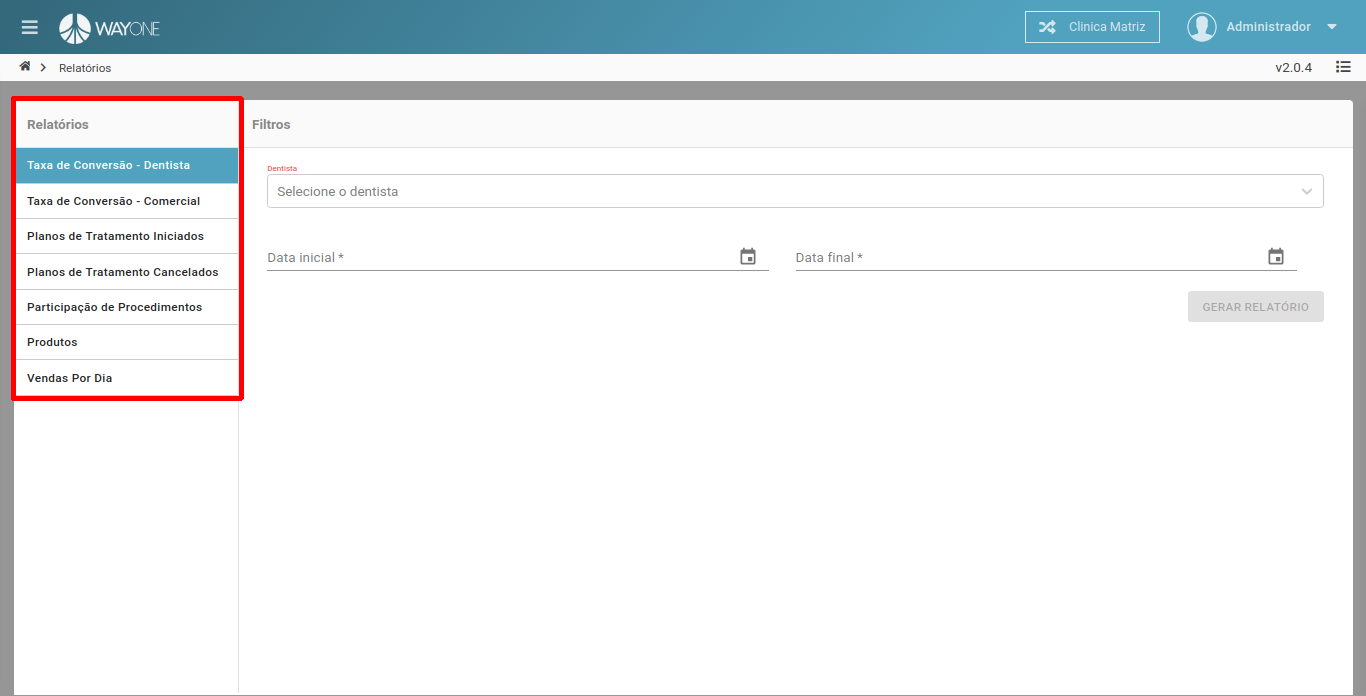
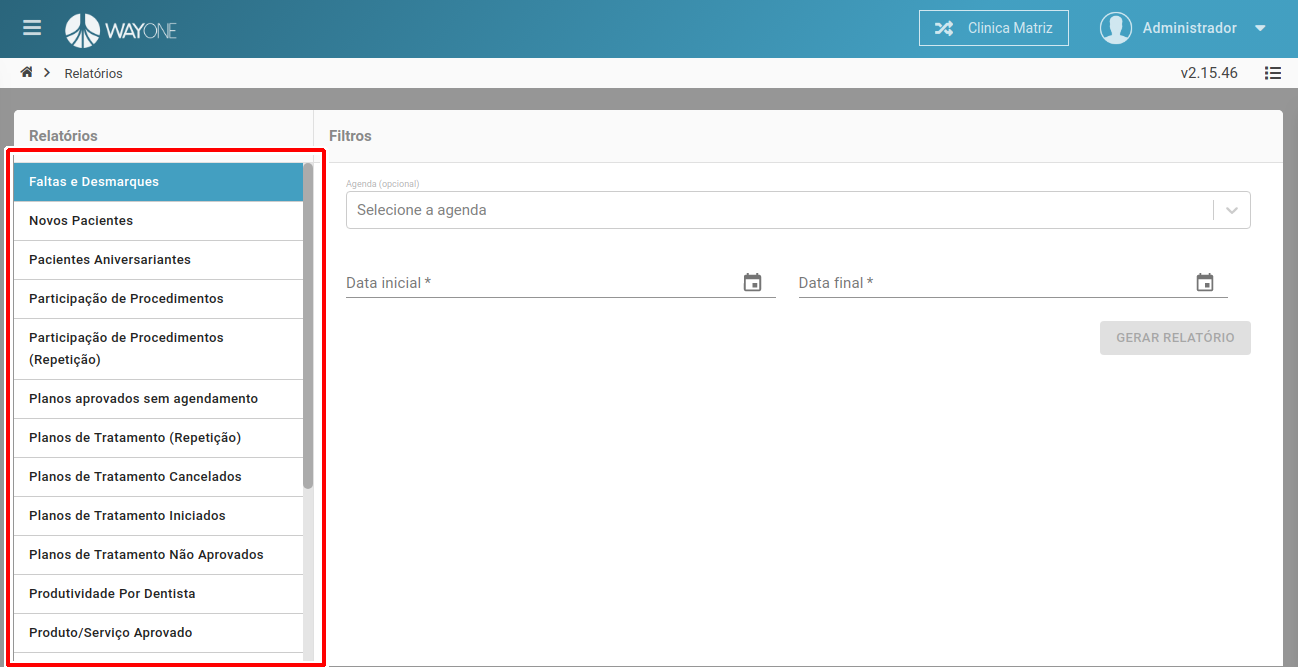
tutoriais de relatórios

diff --git a/pages/relatorio/tipos-relatorios/index.md b/pages/relatorio/tipos-relatorios/index.md
@@ -11,7 +11,7 @@ Para acessar os relatórios no menu do sistema selecione **Relatórios**
   <img alt="tipos-relatorios-img-1" src="/pages/relatorio/tipos-relatorios/tipos-relatorios-img-1.png" style="width: 90%; margin-bottom: 20px;">
 </div>
 
-**Obs:** Caso este item não apareça no seu menu e porque seu usuário não possuir permissões de acesso a esse modulo.
+**Obs:** Caso este item não apareça no seu menu é porque seu usuário não possuir permissões de acesso à este modulo.
 
 Sera exibida a tela de relatórios com o primeiro relatório já selecionado.
 
@@ -21,10 +21,22 @@ Sera exibida a tela de relatórios com o primeiro relatório já selecionado.
 
 Os relatórios presentes no sistema são:
 
-- [Taxa conversão - Dentista](/pages/relatorio/taxa-conversao-dentista/)
-- [Taxa conversão - Comercial](/pages/relatorio/taxa-conversao-comercial/)
-- [Planos de tratamento iniciados](/pages/relatorio/planos-tratamento-iniciados/)
-- [Planos de tratamento cancelados](/pages/relatorio/planos-tratamento-cancelados/)
+- [Faltas e Desmarques](/pages/relatorio/faltas-desmarques/)
+- [Novos Pacientes](/pages/relatorio/novos-pacientes/)
+- [Pacientes Aniversariantes](/pages/relatorio/pacientes-aniversariantes/)
 - [Participação de procedimentos](/pages/relatorio/participacao-procedimentos/)
+- [Participação de procedimentos (Repetição)](/pages/relatorio/participacao-procedimentos-repeticao/)
+- [Planos aprovados sem agendamento](/pages/relatorio/planos-aprovados-sem-agendamentos/)
+- [Planos de tratamento (Repetição)](/pages/relatorio/planos-tratamento-repeticao/) <!-- FAZER -->
+- [Planos de tratamento cancelados](/pages/relatorio/planos-tratamento-cancelados/)
+- [Planos de tratamento iniciados](/pages/relatorio/planos-tratamento-iniciados/)
+- [Planos de tratamento não aprovados](/pages/relatorio/planos-nao-aprovados/)
+- [Produtividade por Dentista](/pages/relatorio/produtividade-por-dentista/)
+- [Produto/Serviço Aprovado](/pages/relatorio/produto-servico-aprovado/)
 - [Produtos](/pages/relatorio/produtos/)
+- [Recebimentos (efetivado)](/pages/relatorio/recebimentos-efetivado/) <!-- FAZER -->
+- [Recebimentos (titulo)](/pages/relatorio/recebimentos-titulo/) <!-- FAZER -->
+- [Situação de procedimentos aprovados](/pages/relatorio/situacao-procedimentos-aprovados/) <!-- FAZER -->
+- [Taxa conversão - Comercial](/pages/relatorio/taxa-conversao-comercial/)
+- [Taxa conversão - Dentista](/pages/relatorio/taxa-conversao-dentista/)
 - [Vendas por dia](/pages/relatorio/vendas-por-dia/)

diff --git a/pages/relatorio/produtividade-por-dentista/index.md b/pages/relatorio/produtividade-por-dentista/index.md
@@ -1,0 +1,31 @@
+---
+layout: page
+title: Relatórios - Produtividade por Dentista
+---
+
+### Definição
+
+O relatório de produtividade por dentista lista todos os procedimentos que o dentista executou, a lista é ordenada por data de execução.
+
+Selecione o relatório de **Produtividade por Dentista** clicando sobre o nome dele no menu localizado no lado esquerdo da tela
+
+<div class="text-center"> 
+  <img alt="produtividade-por-dentista-img-1" src="/pages/relatorio/produtividade-por-dentista/produtividade-por-dentista-img-1.png" style="width: 90%; margin-bottom: 20px;">
+</div>
+
+Será exibido os filtros necessários para a geração do relatório.
+
+<div class="text-center"> 
+  <img alt="produtividade-por-dentista-img-2" src="/pages/relatorio/produtividade-por-dentista/produtividade-por-dentista-img-2.png" style="width: 90%; margin-bottom: 20px;">
+</div>
+
+1. O campo **Dentista** - filtra o dentista que se deseja gerar o relatório.
+2. O campo **Data Inicial** - filtra pela data inicial informada.
+3. O campo **Data Final** - filtra pela data final informada.
+4. Botão **Gerar Relatório** - gera o relatório aplicando os filtros.
+
+Após clicar no botão de gerar o relatório sera gerado um **arquivo em formato .pdf** basta clicar sobre ele para visualiza-lo.
+
+<div class="text-center"> 
+  <img alt="produtividade-por-dentista-img-3" src="/pages/relatorio/produtividade-por-dentista/produtividade-por-dentista-img-3.png" style="width: 800px; border: thin solid #000">
+</div>

diff --git a/pages/relatorio/planos-aprovados-sem-agendamentos/index.md b/pages/relatorio/planos-aprovados-sem-agendamentos/index.md
@@ -1,0 +1,30 @@
+---
+layout: page
+title: Relatórios - Planos aprovados sem agendamento
+---
+
+### Definição
+
+O relatório de planos aprovados sem agendamento lista todos os casos que precisam de agendamento, pois o tratamento já pode ser realizado.
+
+Selecione o relatório de **Planos aprovados sem agendamento** clicando sobre o nome dele no menu localizado no lado esquerdo da tela
+
+<div class="text-center"> 
+  <img alt="planos-aprovados-sem-agendamentos-img-1" src="/pages/relatorio/planos-aprovados-sem-agendamentos/planos-aprovados-sem-agendamentos-img-1.png" style="width: 90%; margin-bottom: 20px;">
+</div>
+
+Será exibido os filtros necessários para a geração do relatório.
+
+<div class="text-center"> 
+  <img alt="planos-aprovados-sem-agendamentos-img-2" src="/pages/relatorio/planos-aprovados-sem-agendamentos/planos-aprovados-sem-agendamentos-img-2.png" style="width: 90%; margin-bottom: 20px;">
+</div>
+
+1. O campo **Data Inicial** - filtra pela data inicial informada.
+2. O campo **Data Final** - filtra pela data final informada.
+3. Botão **Gerar Relatório** - gera o relatório aplicando os filtros.
+
+Após clicar no botão de gerar o relatório sera gerado um **arquivo em formato .pdf** basta clicar sobre ele para visualiza-lo.
+
+<div class="text-center"> 
+  <img alt="planos-aprovados-sem-agendamentos-img-3" src="/pages/relatorio/planos-aprovados-sem-agendamentos/planos-aprovados-sem-agendamentos-img-3.png" style="width: 800px; border: thin solid #000">
+</div>

diff --git a/pages/relatorio/produto-servico-aprovado/index.md b/pages/relatorio/produto-servico-aprovado/index.md
@@ -1,0 +1,31 @@
+---
+layout: page
+title: Relatórios - Produto/Serviço Aprovado
+---
+
+### Definição
+
+O relatório de produto/serviço aprovado lista todos os pacientes que tiveram um determinado produto ou serviço aprovado para ser executado.
+
+Selecione o relatório de **Produto/Serviço Aprovado** clicando sobre o nome dele no menu localizado no lado esquerdo da tela
+
+<div class="text-center"> 
+  <img alt="produto-servico-aprovado-img-1" src="/pages/relatorio/produto-servico-aprovado/produto-servico-aprovado-img-1.png" style="width: 90%; margin-bottom: 20px;">
+</div>
+
+Será exibido os filtros necessários para a geração do relatório.
+
+<div class="text-center"> 
+  <img alt="produto-servico-aprovado-img-2" src="/pages/relatorio/produto-servico-aprovado/produto-servico-aprovado-img-2.png" style="width: 90%; margin-bottom: 20px;">
+</div>
+
+1. O campo **Procedimento** - filtra o produto/serviço que se deseja gerar o relatório.
+2. O campo **Data Inicial** - filtra pela data inicial informada.
+3. O campo **Data Final** - filtra pela data final informada.
+4. Botão **Gerar Relatório** - gera o relatório aplicando os filtros.
+
+Após clicar no botão de gerar o relatório sera gerado um **arquivo em formato .pdf** basta clicar sobre ele para visualiza-lo.
+
+<div class="text-center"> 
+  <img alt="produto-servico-aprovado-img-3" src="/pages/relatorio/produto-servico-aprovado/produto-servico-aprovado-img-3.png" style="width: 800px; border: thin solid #000">
+</div>

diff --git a/pages/relatorio/planos-nao-aprovados/index.md b/pages/relatorio/planos-nao-aprovados/index.md
@@ -1,0 +1,30 @@
+---
+layout: page
+title: Relatórios - Planos de tratamento não aprovados
+---
+
+### Definição
+
+O relatório de planos de tratamento não aprovados lista todos os casos que estão aguardando para aprovar, e caso tenha planos muito antigos, é interessante verificar o caso para entrar em contato com o cliente caso seja necessário.
+
+Selecione o relatório de **Planos de tratamento não aprovados** clicando sobre o nome dele no menu localizado no lado esquerdo da tela
+
+<div class="text-center"> 
+  <img alt="planos-nao-aprovados-img-1" src="/pages/relatorio/planos-nao-aprovados/planos-nao-aprovados-img-1.png" style="width: 90%; margin-bottom: 20px;">
+</div>
+
+Será exibido os filtros necessários para a geração do relatório.
+
+<div class="text-center"> 
+  <img alt="planos-nao-aprovados-img-2" src="/pages/relatorio/planos-nao-aprovados/planos-nao-aprovados-img-2.png" style="width: 90%; margin-bottom: 20px;">
+</div>
+
+1. O campo **Data Inicial** - filtra pela data inicial informada.
+2. O campo **Data Final** - filtra pela data final informada.
+3. Botão **Gerar Relatório** - gera o relatório aplicando os filtros.
+
+Após clicar no botão de gerar o relatório sera gerado um **arquivo em formato .pdf** basta clicar sobre ele para visualiza-lo.
+
+<div class="text-center"> 
+  <img alt="planos-nao-aprovados-img-3" src="/pages/relatorio/planos-nao-aprovados/planos-nao-aprovados-img-3.png" style="width: 800px; border: thin solid #000">
+</div>

diff --git a/pages/relatorio/faltas-desmarques/index.md b/pages/relatorio/faltas-desmarques/index.md
@@ -1,0 +1,31 @@
+---
+layout: page
+title: Relatórios - Faltas e Desmarques
+---
+
+### Definição
+
+O relatório de faltas e desmarques apresenta os agendamentos que foram cancelados em um determinado período. Sejam eles cancelados por parte da clínica ou por parte do paciente.
+
+Selecione o relatório de **Faltas e Desmarques** clicando sobre o nome dele no menu localizado no lado esquerdo da tela
+
+<div class="text-center"> 
+  <img alt="faltas-desmarques-img-1" src="/pages/relatorio/faltas-desmarques/faltas-desmarques-img-1.png" style="width: 90%; margin-bottom: 20px;">
+</div>
+
+Será exibido os filtros necessários para a geração do relatório.
+
+<div class="text-center"> 
+  <img alt="faltas-desmarques-img-2" src="/pages/relatorio/faltas-desmarques/faltas-desmarques-img-2.png" style="width: 90%; margin-bottom: 20px;">
+</div>
+
+1. O campo **Agenda** - é opcional caso queira saber informações de uma só.
+2. O campo **Data Inicial** - filtra pela data inicial informada.
+3. O campo **Data Final** - filtra pela data final informada.
+4. Botão **Gerar Relatório** - gera o relatório aplicando os filtros.
+
+Após clicar no botão de gerar o relatório sera gerado um **arquivo em formato .pdf** basta clicar sobre ele para visualiza-lo.
+
+<div class="text-center"> 
+  <img alt="faltas-desmarques-img-3" src="/pages/relatorio/faltas-desmarques/faltas-desmarques-img-3.png" style="width: 800px; border: thin solid #000">
+</div>

diff --git a/pages/relatorio/pacientes-aniversariantes/index.md b/pages/relatorio/pacientes-aniversariantes/index.md
@@ -1,0 +1,29 @@
+---
+layout: page
+title: Relatórios - Pacientes Aniversariantes
+---
+
+### Definição
+
+O relatório de pacientes aniversariantes lista todas as pessoas que vão fazer aniversário em um determinado período.
+
+Selecione o relatório de **Pacientes Aniversariantes** clicando sobre o nome dele no menu localizado no lado esquerdo da tela
+
+<div class="text-center"> 
+  <img alt="pacientes-aniversariantes-img-1" src="/pages/relatorio/pacientes-aniversariantes/pacientes-aniversariantes-img-1.png" style="width: 90%; margin-bottom: 20px;">
+</div>
+
+Será exibido os filtros necessários para a geração do relatório.
+
+<div class="text-center"> 
+  <img alt="pacientes-aniversariantes-img-2" src="/pages/relatorio/pacientes-aniversariantes/pacientes-aniversariantes-img-2.png" style="width: 90%; margin-bottom: 20px;">
+</div>
+
+1. O campo **Data Inicial** - filtra pela data inicial informada.
+2. O campo **Data Final** - filtra pela data final informada.
+
+Após clicar no botão de gerar o relatório sera gerado um **arquivo em formato .pdf** basta clicar sobre ele para visualiza-lo.
+
+<div class="text-center"> 
+  <img alt="pacientes-aniversariantes-img-3" src="/pages/relatorio/pacientes-aniversariantes/pacientes-aniversariantes-img-3.png" style="width: 800px; border: thin solid #000">
+</div>

diff --git a/pages/relatorio/novos-pacientes/index.md b/pages/relatorio/novos-pacientes/index.md
@@ -1,0 +1,29 @@
+---
+layout: page
+title: Relatórios - Novos Pacientes
+---
+
+### Definição
+
+O relatório de novos pacientes lista todos os novos cadastros realizados em um determinado período.
+
+Selecione o relatório de **Novos Pacientes** clicando sobre o nome dele no menu localizado no lado esquerdo da tela
+
+<div class="text-center"> 
+  <img alt="novos-pacientes-img-1" src="/pages/relatorio/novos-pacientes/novos-pacientes-img-1.png" style="width: 90%; margin-bottom: 20px;">
+</div>
+
+Será exibido os filtros necessários para a geração do relatório.
+
+<div class="text-center"> 
+  <img alt="novos-pacientes-img-2" src="/pages/relatorio/novos-pacientes/novos-pacientes-img-2.png" style="width: 90%; margin-bottom: 20px;">
+</div>
+
+1. O campo **Data Inicial** - filtra pela data inicial informada.
+2. O campo **Data Final** - filtra pela data final informada.
+
+Após clicar no botão de gerar o relatório sera gerado um **arquivo em formato .pdf** basta clicar sobre ele para visualiza-lo.
+
+<div class="text-center"> 
+  <img alt="novos-pacientes-img-3" src="/pages/relatorio/novos-pacientes/novos-pacientes-img-3.png" style="width: 800px; border: thin solid #000">
+</div>

diff --git a/pages/relatorio/participacao-procedimentos-repeticao/index.md b/pages/relatorio/participacao-procedimentos-repeticao/index.md
@@ -1,0 +1,16 @@
+---
+layout: page
+title: Relatórios - Participação de Procedimentos (Repetição)
+---
+
+### Definição
+
+O relatório de participação de procedimentos (Repetição) funciona igual ao relatório de **participação de procedimentos**, mas nesse caso, esse apresenta a porcentagem de cada procedimento em relação a todos os planos aprovados (Repetição).
+
+O passo a passo para gerar este relatório é o mesmo do relatório de **participação de procedimentos**, com a diferença que, no menu lateral precisará clicar na opção **Participação de Procedimentos (Repetição)**.
+
+<div class="text-center"> 
+  <img alt="participacao-procedimentos-repeticao-img-1" src="/pages/relatorio/participacao-procedimentos-repeticao/participacao-procedimentos-repeticao-img-1.png" style="width: 90%; margin-bottom: 20px;">
+</div>
+
+Para ver os detalhes de como gerar o relatório, - [Clique aqui.](/pages/relatorio/participacao-procedimentos/)
